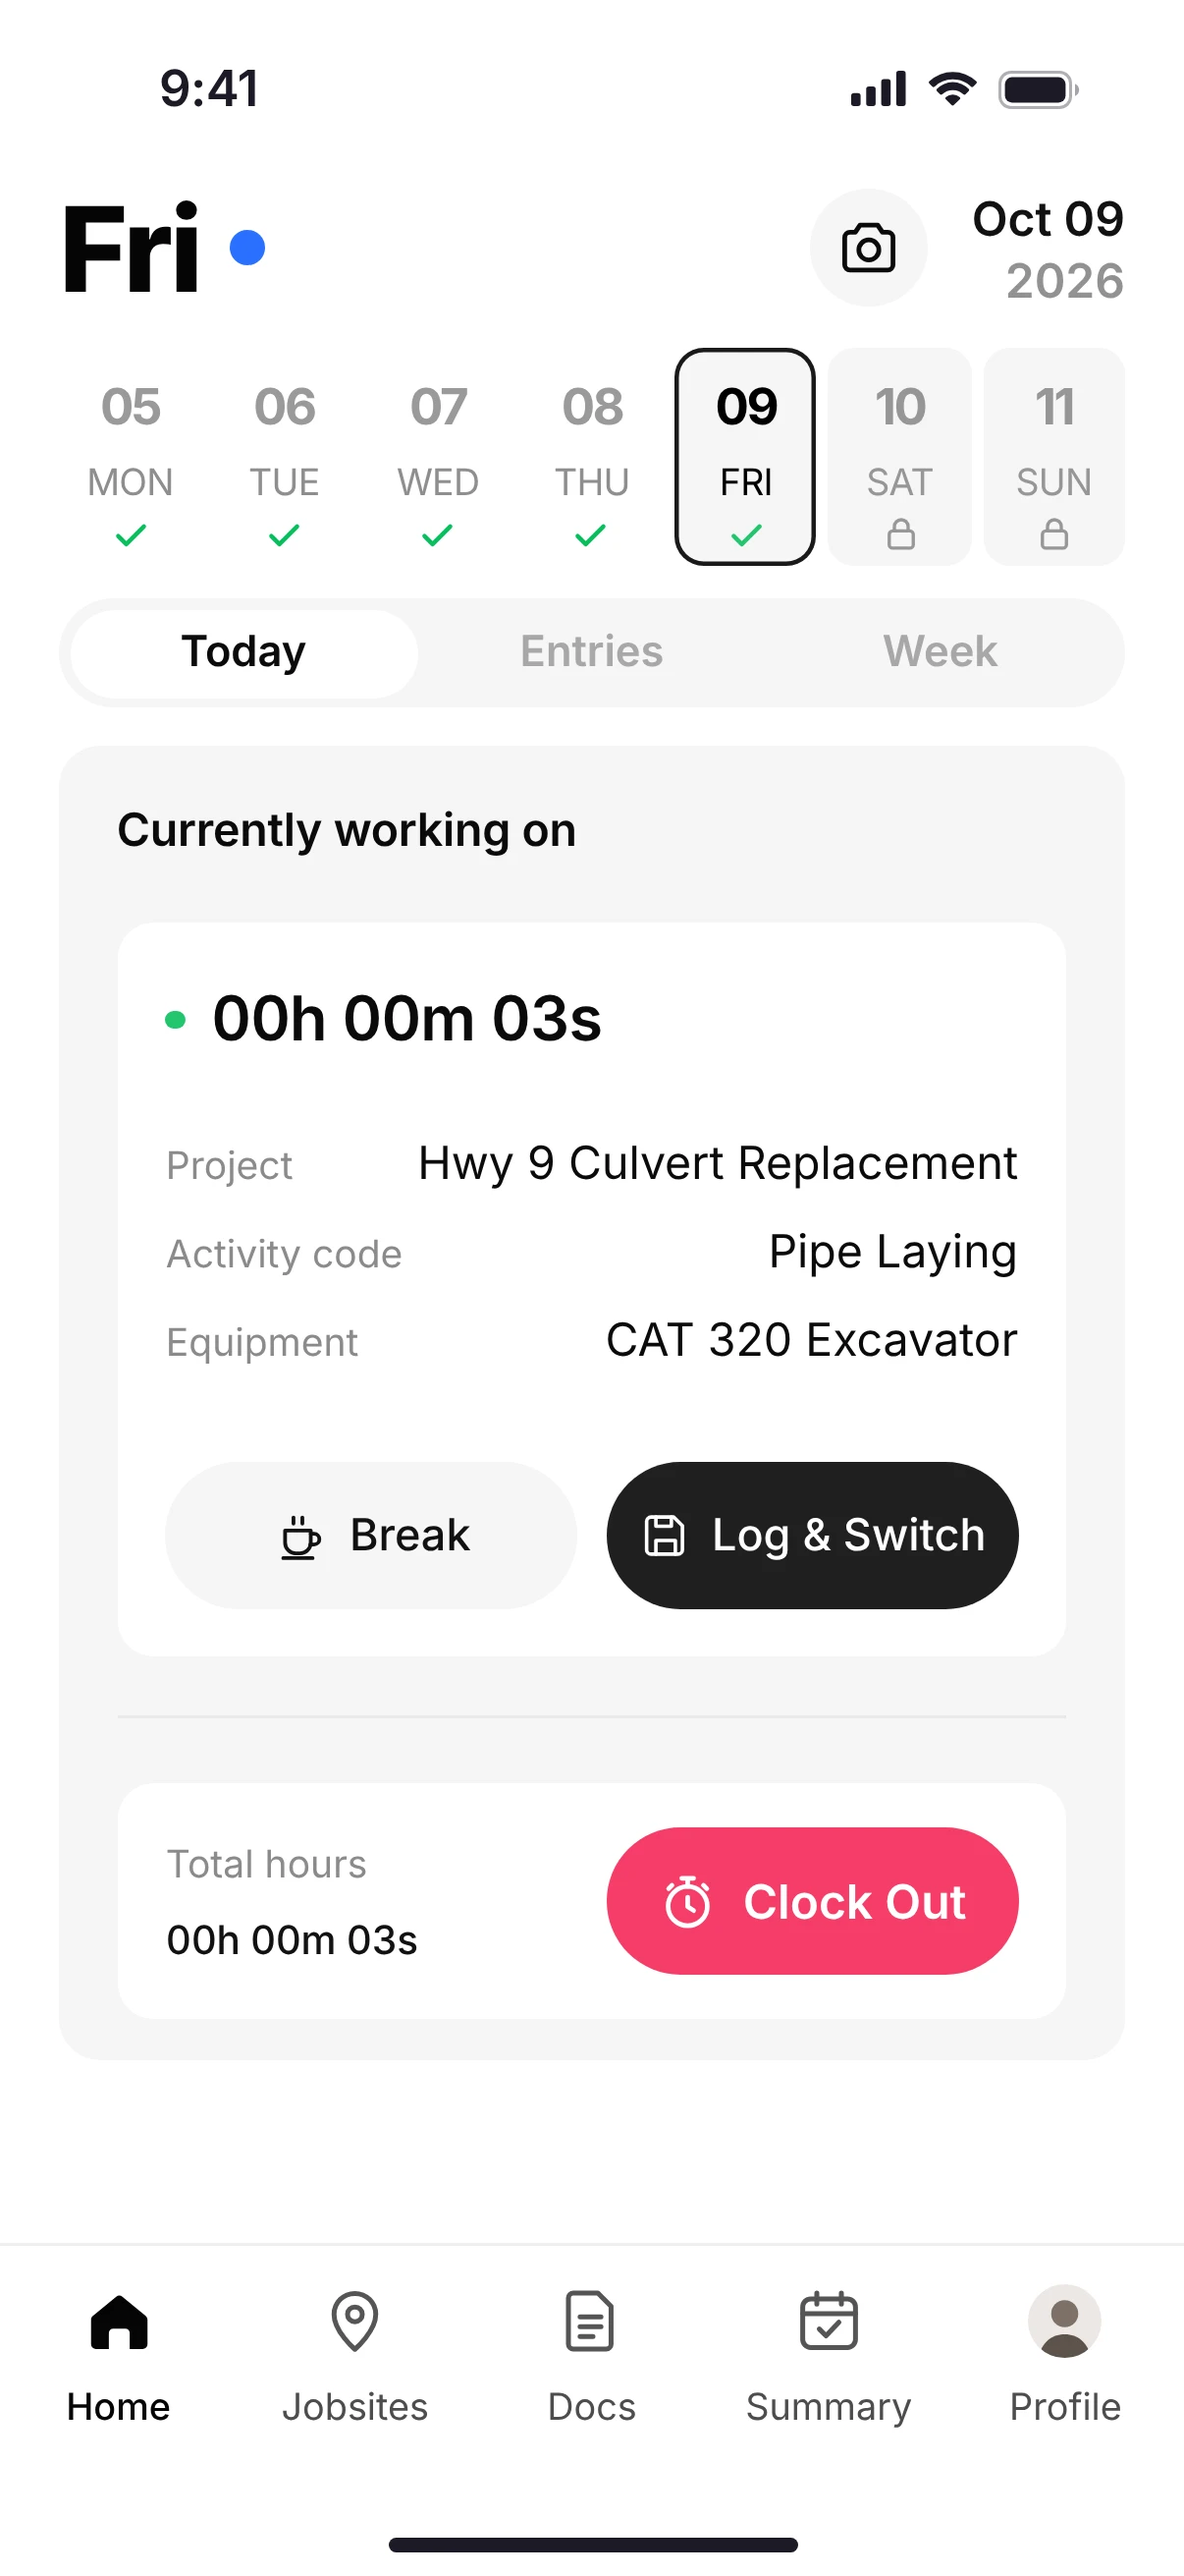
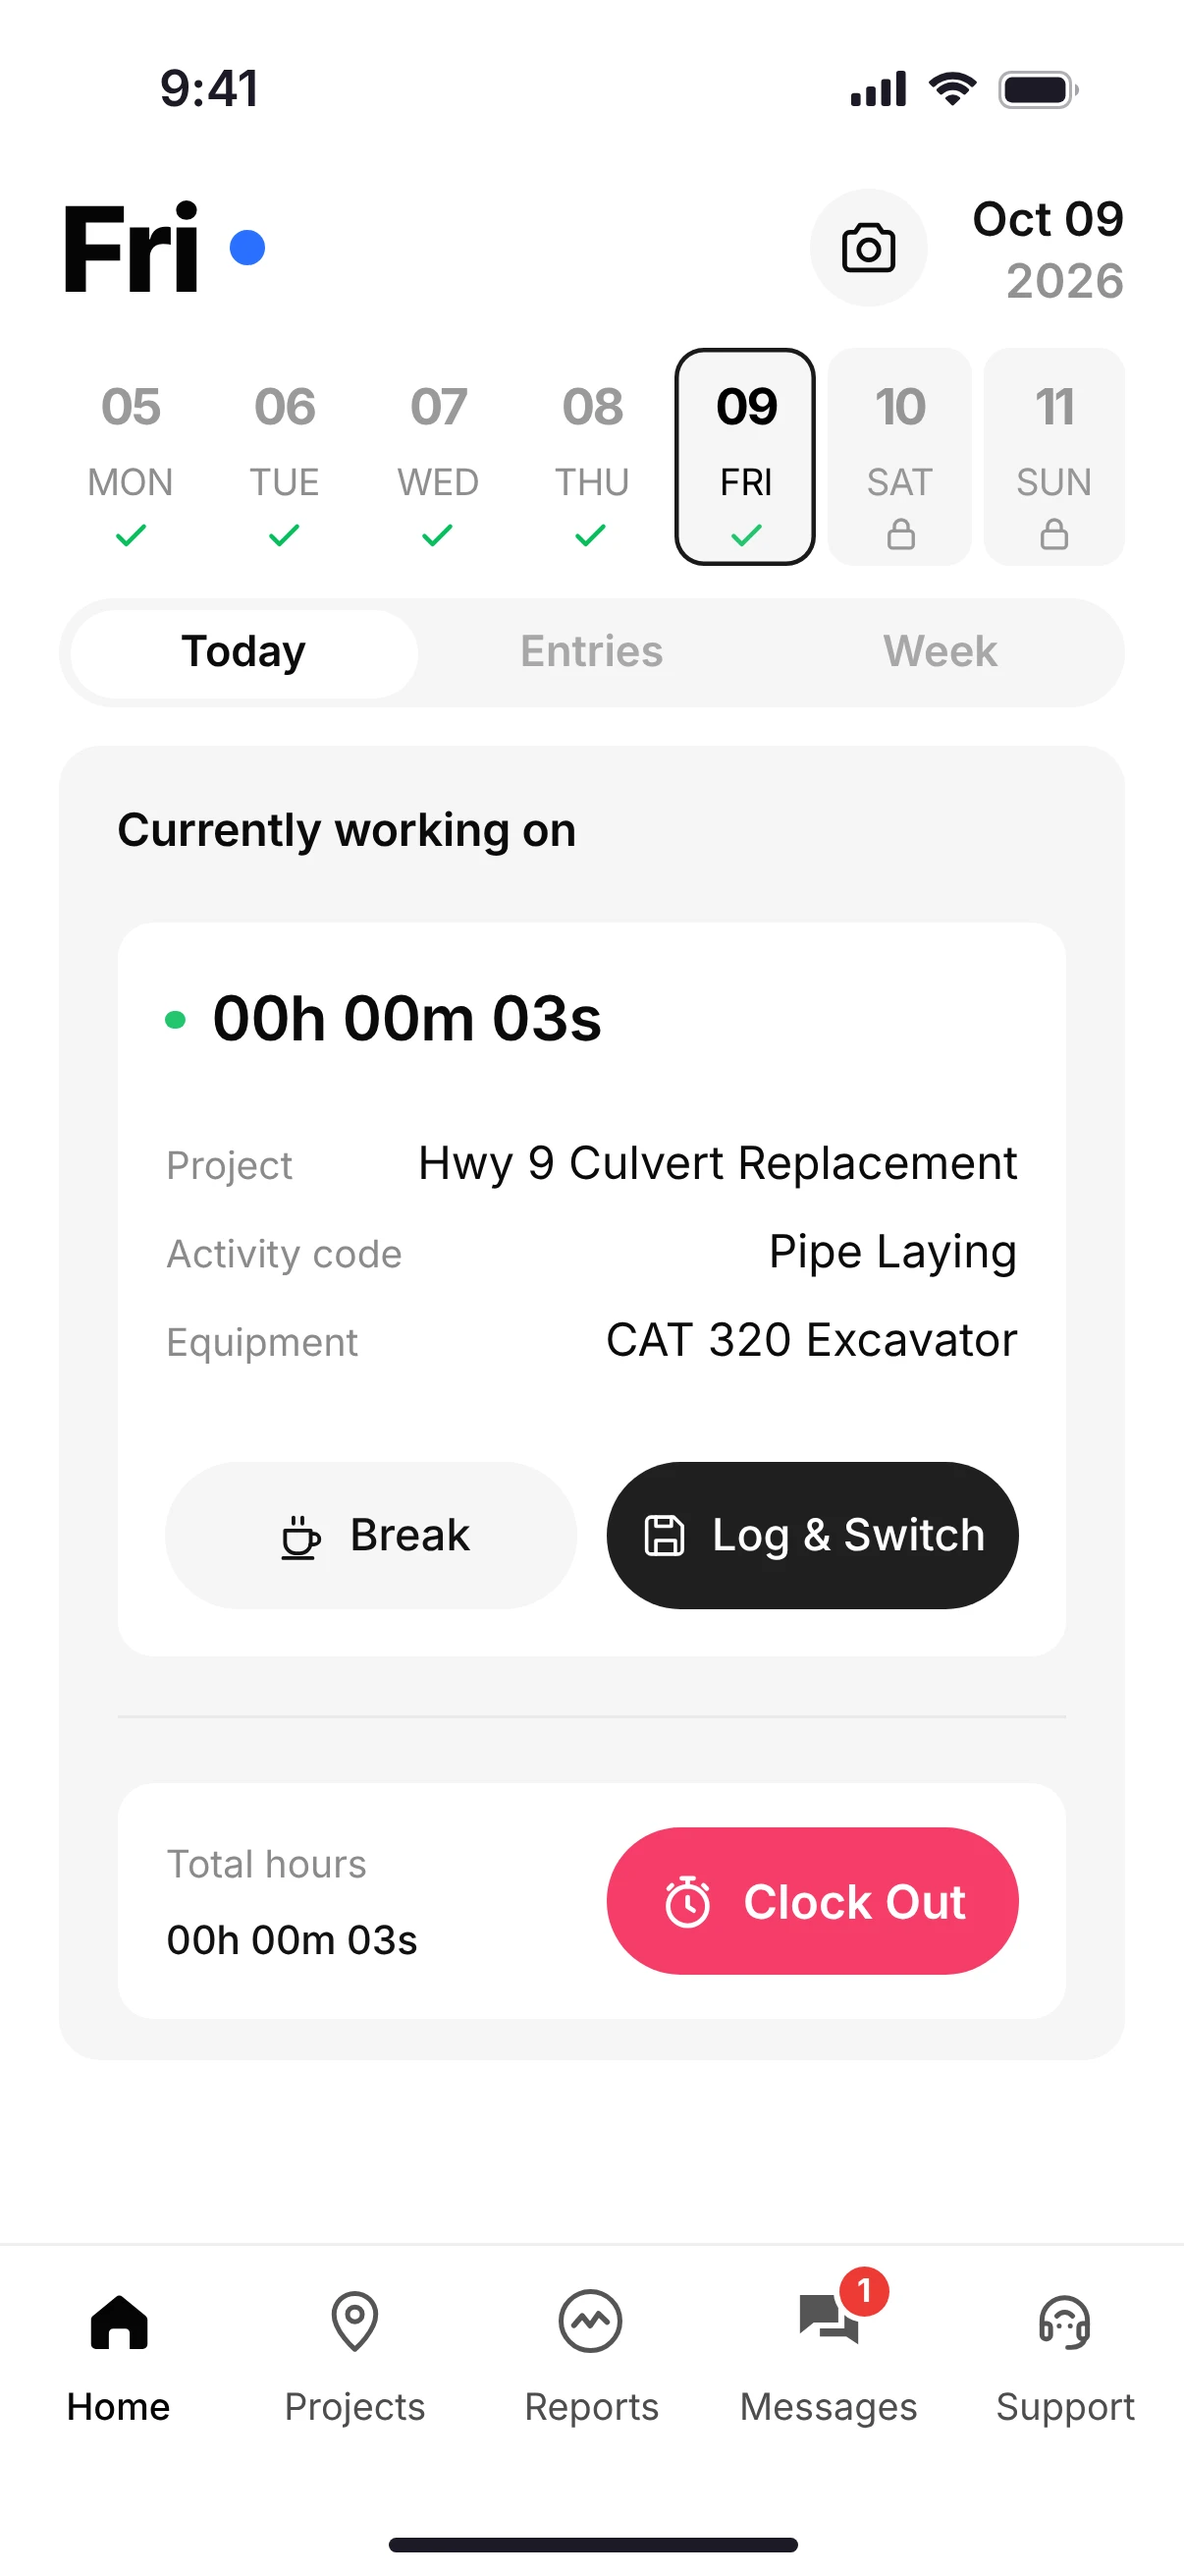
Phone screens: the updated app's bottom bar (Home, Projects, Reports, Messages, Support)
From James's screenshots of the updated app (Oct 21). The kit TabBar now draws
the new tabs with the app's own glyphs and the Messages badge; the Chats screen
uses it too. Re-rendered the phone screens and Watch it work states that show
the bar: phone-home, phone-working, phone-summary, phone-reports,
phone-messages, phone-d-clockedin, phone-d-working-5pm, phone-d-clockedout,
phone-d-summary-sent (plus their 720 copies).

Claude-Session: https://claude.ai/code/session_01Q8cdFFHGMg3NhLpcHcXA8Z

diff --git a/smartcrew/src/screens/kit/PhoneShell.tsx b/smartcrew/src/screens/kit/PhoneShell.tsx
@@ -1,7 +1,7 @@
 import type { CSSProperties, ReactNode } from "react";
-import { Icon, type IconName } from "./Icon";
+import { Icon } from "./Icon";
 
-export type PhoneTab = "Home" | "Jobsites" | "Docs" | "Reports" | "Summary" | "Profile";
+export type PhoneTab = "Home" | "Projects" | "Reports" | "Messages" | "Support" | "Jobsites" | "Docs" | "Summary" | "Profile";
 
 /** iOS status bar: 9:41, signal, wifi, battery (54 px tall, leaves room for the Dynamic Island). */
 export function StatusBar({ island = false, tone = "dark" }: { island?: boolean; tone?: "dark" | "light" }) {
@@ -31,34 +31,55 @@ export function StatusBar({ island = false, tone = "dark" }: { island?: boolean;
   );
 }
 
-const TABS_V: { key: PhoneTab; icon: IconName }[] = [
-  { key: "Home", icon: "home" },
-  { key: "Jobsites", icon: "mapPin" },
-  { key: "Docs", icon: "docs" },
-  { key: "Summary", icon: "calendarCheck" },
-  { key: "Profile", icon: "user" },
-];
+const TABS: PhoneTab[] = ["Home", "Projects", "Reports", "Messages", "Support"];
+// the old bar's tabs, where the updated app has them now
+const NOW: Partial<Record<PhoneTab, PhoneTab>> = { Jobsites: "Projects", Docs: "Reports", Summary: "Home" };
 
-/** Bottom tab bar: Home · Jobsites · Docs (or Reports) · Summary · Profile, with the home indicator. */
-export function TabBar({ active, variant = "docs" }: { active: PhoneTab | null; variant?: "docs" | "reports" }) {
-  const tabs = variant === "reports" ? TABS_V.map((t) => (t.key === "Docs" ? { key: "Reports" as PhoneTab, icon: "reports" as IconName } : t)) : TABS_V;
+// the updated app's own glyphs (James's screenshots, Oct 21): the Reports pulse, the Messages bubbles
+const Pulse = ({ on }: { on: boolean }) => (
+  <svg width="25" height="25" viewBox="0 0 24 24" fill="none" aria-hidden="true">
+    <circle cx="12" cy="12" r="9.6" fill={on ? "currentColor" : "none"} stroke="currentColor" strokeWidth={1.6} />
+    <path d="M6.6 13.4l2.7-3.1 2.6 3.2 2.7-3.9 2.8 2.7" stroke={on ? "#fff" : "currentColor"} strokeWidth={1.8} strokeLinecap="round" strokeLinejoin="round" />
+  </svg>
+);
+const Bubbles = () => (
+  <svg width="25" height="25" viewBox="0 0 24 24" fill="currentColor" aria-hidden="true">
+    <path d="M2.5 3.5h12.5v9H7l-4.5 3.6z" />
+    <path d="M17 7h4.5v12.6L17.6 17H9v-2.6h8z" />
+  </svg>
+);
+const PinFill = () => (
+  <svg width="25" height="25" viewBox="0 0 24 24" aria-hidden="true">
+    <path d="M12 21.6s-7.2-6-7.2-11.8a7.2 7.2 0 0 1 14.4 0c0 5.8-7.2 11.8-7.2 11.8z" fill="currentColor" />
+    <circle cx="12" cy="9.8" r="2.6" fill="#fff" />
+  </svg>
+);
+
+/** Bottom tab bar, as in the updated app: Home · Projects · Reports · Messages (1 new) · Support, with the home indicator. */
+export function TabBar({ active }: { active: PhoneTab | null; variant?: "docs" | "reports" }) {
+  const lit = active ? (NOW[active] ?? active) : null;
   return (
     <div className="sc-tabbar">
-      {tabs.map(({ key, icon }) => {
-        const on = key === active;
-        const ic: IconName = key === "Home" ? (on ? "homeFill" : "homeDoor") : on && key === "Summary" ? "calendarCheckFill" : icon;
+      {TABS.map((key) => {
+        const on = key === lit;
+        const icon =
+          key === "Home" ? (
+            <Icon name={on ? "homeFill" : "homeDoor"} size={25} stroke={1.6} />
+          ) : key === "Projects" ? (
+            on ? <PinFill /> : <Icon name="mapPin" size={25} stroke={1.6} />
+          ) : key === "Reports" ? (
+            <Pulse on={on} />
+          ) : key === "Messages" ? (
+            <Bubbles />
+          ) : (
+            <Icon name="headset" size={25} stroke={on ? 2.1 : 1.6} />
+          );
         return (
           <div key={key} className={`sc-tab${on ? " is-active" : ""}`}>
-            {key === "Profile" ? (
-              <span className="sc-tab-avatar">
-                <svg viewBox="0 0 25 25" width="25" height="25" aria-hidden="true">
-                  <circle cx="12.5" cy="10" r="4.6" fill="#7d7066" />
-                  <path d="M3.6 25c.9-5.1 4.4-8 8.9-8s8 2.9 8.9 8z" fill="#5e534b" />
-                </svg>
-              </span>
-            ) : (
-              <Icon name={ic} size={25} stroke={1.6} />
-            )}
+            <span className="sc-tab-ic">
+              {icon}
+              {key === "Messages" && !on && <span className="sc-tab-badge">1</span>}
+            </span>
             <span>{key}</span>
           </div>
         );

diff --git a/smartcrew/src/screens/phone/Messages.tsx b/smartcrew/src/screens/phone/Messages.tsx
@@ -19,8 +19,8 @@ const CHANNELS: Channel[] = [
   { name: "Office", last: "No messages yet" },
 ];
 
-// the app's own glyphs: two square speech bubbles (a chat), a megaphone (announcements), the bar's
-// Tools gauge
+// the app's own glyphs: two square speech bubbles (a chat), a megaphone (announcements). The bottom
+// bar is the updated app's (kit TabBar, James's screenshots Oct 21).
 const g = (d: string) => <path d={d} />;
 const Svg = ({ children, size = 24, fill = false }: { children: ReactNode; size?: number; fill?: boolean }) => (
   <svg width={size} height={size} viewBox="0 0 24 24" fill={fill ? "currentColor" : "none"} stroke={fill ? "none" : "currentColor"} strokeWidth={1.8} strokeLinecap="round" strokeLinejoin="round" aria-hidden="true">
@@ -48,36 +48,9 @@ const Megaphone = ({ size }: { size?: number }) => (
     {g("M6.5 14l1.2 4.2M17.6 9.2l2-1.4M18.2 12h2.4M17.6 14.8l2 1.4")}
   </Svg>
 );
-const Gauge = () => (
-  <Svg size={25}>
-    <circle cx="12" cy="12" r="9" />
-    {g("M6.8 13.2l2.6-3 2.6 3.4 2.6-4.2 2.6 2.6")}
-  </Svg>
-);
-
-function Bar() {
-  const tabs: { key: string; icon: ReactNode }[] = [
-    { key: "Home", icon: <Icon name="homeDoor" size={25} stroke={1.6} /> },
-    { key: "Messages", icon: <ChatGlyph size={25} fill /> },
-    { key: "Tools", icon: <Gauge /> },
-    { key: "Schedule", icon: <Icon name="calendar" size={25} stroke={1.6} /> },
-    { key: "Support", icon: <Icon name="headset" size={25} stroke={1.6} /> },
-  ];
-  return (
-    <div className="pchat-bar">
-      {tabs.map((t) => (
-        <div key={t.key} className={`sc-tab${t.key === "Messages" ? " is-active" : ""}`}>
-          {t.icon}
-          <span>{t.key}</span>
-        </div>
-      ))}
-    </div>
-  );
-}
-
 export default function Messages() {
   return (
-    <PhoneShell footer={<Bar />}>
+    <PhoneShell tab="Messages">
       <div className="pchat-head">
         <h1>Chats</h1>
         <span className="pchat-btn">

diff --git a/smartcrew/src/screens/screens.css b/smartcrew/src/screens/screens.css
@@ -1021,6 +1021,34 @@
 .sc .sc-tab.is-active .sc-icon {
   color: #050505;
 }
+.sc .sc-tab-ic {
+  position: relative;
+  display: grid;
+  place-items: center;
+  width: 25px;
+  height: 25px;
+  color: #555;
+}
+.sc .sc-tab.is-active .sc-tab-ic {
+  color: #050505;
+}
+.sc .sc-tab-badge {
+  position: absolute;
+  top: -6px;
+  right: -8px;
+  min-width: 17px;
+  height: 17px;
+  padding: 0 4px;
+  border-radius: 9px;
+  display: grid;
+  place-items: center;
+  font-size: 11px;
+  font-weight: 700;
+  line-height: 1;
+  color: #fff;
+  background: #ef3b36;
+  box-shadow: 0 0 0 2px #fff;
+}
 .sc .sc-tab-avatar {
   width: 25px;
   height: 25px;

diff --git a/smartcrew/src/screens/phone/FilesPhone.tsx b/smartcrew/src/screens/phone/FilesPhone.tsx
@@ -11,7 +11,7 @@ const FOLDERS = ["Plans", "Photos", "Permits", "Change Orders", "Safety"];
 
 export default function FilesPhone() {
   return (
-    <PhoneShell tab="Docs">
+    <PhoneShell tab="Projects">
       <PhoneHeader icon="docs" title="Docs" right={<CircleButton icon="upload" />} />
       <Input select value={job.name} className="pfl-job" />
       <div className="pfl-folders">

diff --git a/smartcrew/src/screens/phone/Messages.css b/smartcrew/src/screens/phone/Messages.css
@@ -106,15 +106,3 @@
   color: #8a8a8a;
 }
 /* the app's bar: Home · Messages · Tools · Schedule · Support */
-.sc .pchat-bar {
-  display: grid;
-  grid-template-columns: repeat(5, 1fr);
-  align-items: start;
-  margin: -6px -16px 0;
-}
-.sc .pchat-bar .sc-tab {
-  color: #555;
-}
-.sc .pchat-bar .sc-tab.is-active {
-  color: #050505;
-}
